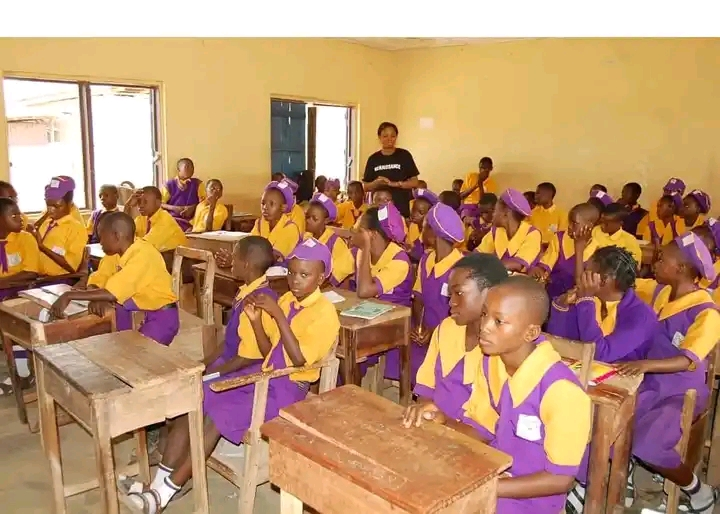
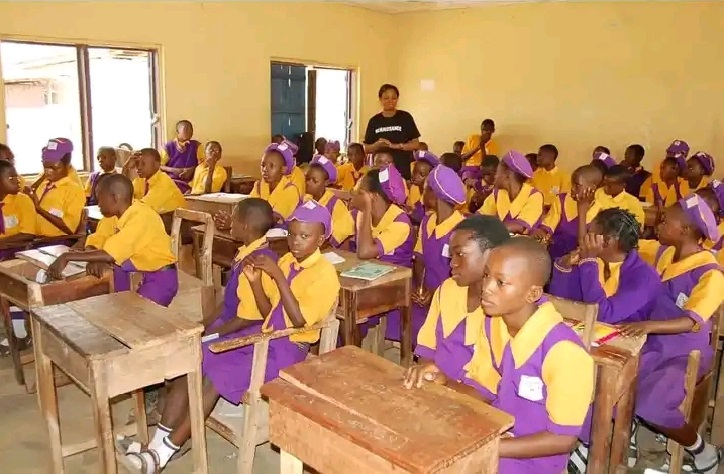
i changed all the event modal images to grid

diff --git a/pages/index.vue b/pages/index.vue
@@ -134,7 +134,7 @@
       <BigModal :Show="first_popup" @cancel="firstModal">
         <template #title>OUR TOUR EVENT</template>
         <div class="block lg:flex items-center">
-           <div class="group bg-no-repeat bg-cover bg-center h-96 w-full lg:w-6/12 mr-4 mb-4 shadow-xl" :style="{ backgroundRepeat: 'no-repeat' + ';', backgroundImage: 'url(' +  require('@/assets/image/orphan.jpg')+ ')' }"></div>
+           <div class="group bg-no-repeat bg-cover bg-center h-96 w-full lg:w-6/12 mr-4 mb-4 shadow-xl" :style="{ backgroundRepeat: 'no-repeat' + ';', backgroundImage: 'url(' +  require('@/assets/image/karimamodal.jpg')+ ')' }"></div>
            <div class="w-full lg:w-6/12">
              <div class="font-bold text-xl mb-6">KARIMA AMBALI</div>
              <h1 class="">In 2017, during our tour of  some growing schools in Iwo land, we came across Karima Ambali, an Orphan with a great academic potentiality. We paid her school fees and render other soft succour to her some other times. It was indeed fulfilling..We make a tour to the school back again around 2017 and inspired the students and have them books for self improvement.</h1>
@@ -144,7 +144,7 @@
       <BigModal :Show="second_popup" @cancel="secondModal">
         <template #title>OUR TOUR EVENT</template>
         <div class="block lg:flex items-center">
-           <div class="group bg-no-repeat bg-cover bg-center h-96 w-full lg:w-6/12 mr-4 mb-4 shadow-xl" :style="{ backgroundRepeat: 'no-repeat' + ';', backgroundImage: 'url(' +  require('@/assets/image/highschl.jpg')+ ')' }"></div>
+           <div class="group bg-no-repeat bg-cover bg-center h-96 w-full lg:w-6/12 mr-4 mb-4 shadow-xl" :style="{ backgroundRepeat: 'no-repeat' + ';', backgroundImage: 'url(' +  require('@/assets/image/highschlmodal.jpg')+ ')' }"></div>
            <div class="w-full lg:w-6/12">
              <div class="font-bold text-xl mb-6">BAPTIST HIGH SCHOOL</div>
              <h1 class="">In 2018, we visited Baptist high school and donated books, school bags  and scholarships to indigent students and reward Late Baba Owojori L. O and another female teacher as our teachers of the year with an award plaques. it was indeed fulfilling.</h1>
@@ -154,7 +154,7 @@
       <BigModal :Show="third_popup" @cancel="thirdModal">
         <template #title>OUR TOUR EVENT</template>
         <div class="block lg:flex items-center">
-           <div class="group bg-no-repeat bg-cover bg-center h-96 w-full lg:w-6/12 mr-4 mb-4 shadow-xl" :style="{ backgroundRepeat: 'no-repeat' + ';', backgroundImage: 'url(' +  require('@/assets/image/aipate3.jpg')+ ')' }"></div>
+           <div class="group bg-no-repeat bg-cover bg-center h-96 w-full lg:w-6/12 mr-4 mb-4 shadow-xl" :style="{ backgroundRepeat: 'no-repeat' + ';', backgroundImage: 'url(' +  require('@/assets/image/aipatemodal.jpg')+ ')' }"></div>
            <div class="w-full lg:w-6/12">
              <div class="font-bold text-xl mb-6">AIPATE BAPTIST CHURCH GRAMMAR SCHOOL</div>
              <h1 class="">In 2019,we visited Aipate Baptist Church Grammar school and donated over 300 customised books and school bags for the junior section while we engage them with life changing seminars</h1>
@@ -164,7 +164,7 @@
       <BigModal :Show="fourth_popup" @cancel="fourthModal">
         <template #title>OUR TOUR EVENT</template>
         <div class="block lg:flex items-center">
-           <div class="group bg-no-repeat bg-cover bg-center h-96 w-full lg:w-6/12 mr-4 mb-4 shadow-xl" :style="{ backgroundRepeat: 'no-repeat' + ';', backgroundImage: 'url(' +  require('@/assets/image/img6.jpg')+ ')' }"></div>
+           <div class="group bg-no-repeat bg-cover bg-center h-96 w-full lg:w-6/12 mr-4 mb-4 shadow-xl" :style="{ backgroundRepeat: 'no-repeat' + ';', backgroundImage: 'url(' +  require('@/assets/image/iwomodal.jpg')+ ')' }"></div>
            <div class="w-full lg:w-6/12">
              <div class="font-bold text-xl mb-6">IWO GRAMMAR SCHOOL</div>
              <h1 class="">In 2020 we visited Iwo Grammar school and donated over 500 customised books, school bags and organized quiz competition while our teacher of the year was Baba kunle Lawal who is a formal principal of the schoolcustomised books and school bags for the junior section while we engage them with life changing seminars</h1>
@@ -174,7 +174,7 @@
       <BigModal :Show="fifth_popup" @cancel="fifthModal">
         <template #title>OUR TOUR EVENT</template>
         <div class="block lg:flex items-center">
-           <div class="group bg-no-repeat bg-cover bg-center h-96 w-full lg:w-6/12 mr-4 mb-4 shadow-xl" :style="{ backgroundRepeat: 'no-repeat' + ';', backgroundImage: 'url(' +  require('@/assets/image/a1.jpg')+ ')' }"></div>
+           <div class="group bg-no-repeat bg-cover bg-center h-96 w-full lg:w-6/12 mr-4 mb-4 shadow-xl" :style="{ backgroundRepeat: 'no-repeat' + ';', backgroundImage: 'url(' +  require('@/assets/image/a1modal.jpg')+ ')' }"></div>
            <div class="w-full lg:w-6/12">
              <div class="font-bold text-xl mb-6">A1 GRAMMAR SCHOOL</div>
              <h1 class="">
@@ -199,10 +199,10 @@
             <div class="w-full md:w-4/12">
               <h1 class="text-white font-bold text-xl lg:text-2xl mb-6">OUR ORGANIZATION</h1>
               <div class="text-white font-normal">
-                <div @click=" scrollToAbout()" class="block mb-4">About Us</div>
-                <div @click="scrollToTour()"  class="hidden lg:block mb-4">Our Services</div>
-                <div @click="scrollToService()"  class="block lg:hidden mb-4">Our Services</div>
-                <div @click="scrollToTour()" class="block mb-4">Our Tour Events</div>
+                <button @click=" scrollToAbout()" class="block mb-4">About Us</button>
+                <button @click="scrollToTour()"  class="hidden lg:block mb-4">Our Services</button>
+                <button @click="scrollToService()"  class="block lg:hidden mb-4">Our Services</button>
+                <button @click="scrollToTour()" class="block mb-4">Our Tour Events</button>
               </div>
             </div>
             <div class="w-full md:ml-4 lg:ml-0 md:w-4/12">
@@ -244,6 +244,7 @@ data(){
       third_popup:false,
       fourth_popup:false,
       fifth_popup:false,
+     
       
       whois: [
          `Our next program is on Oct 8 at Regina mundi girls secondary school where over 100 students will converge for the battle of wits quiz program and celebrate two outstanding teachers viz`,
